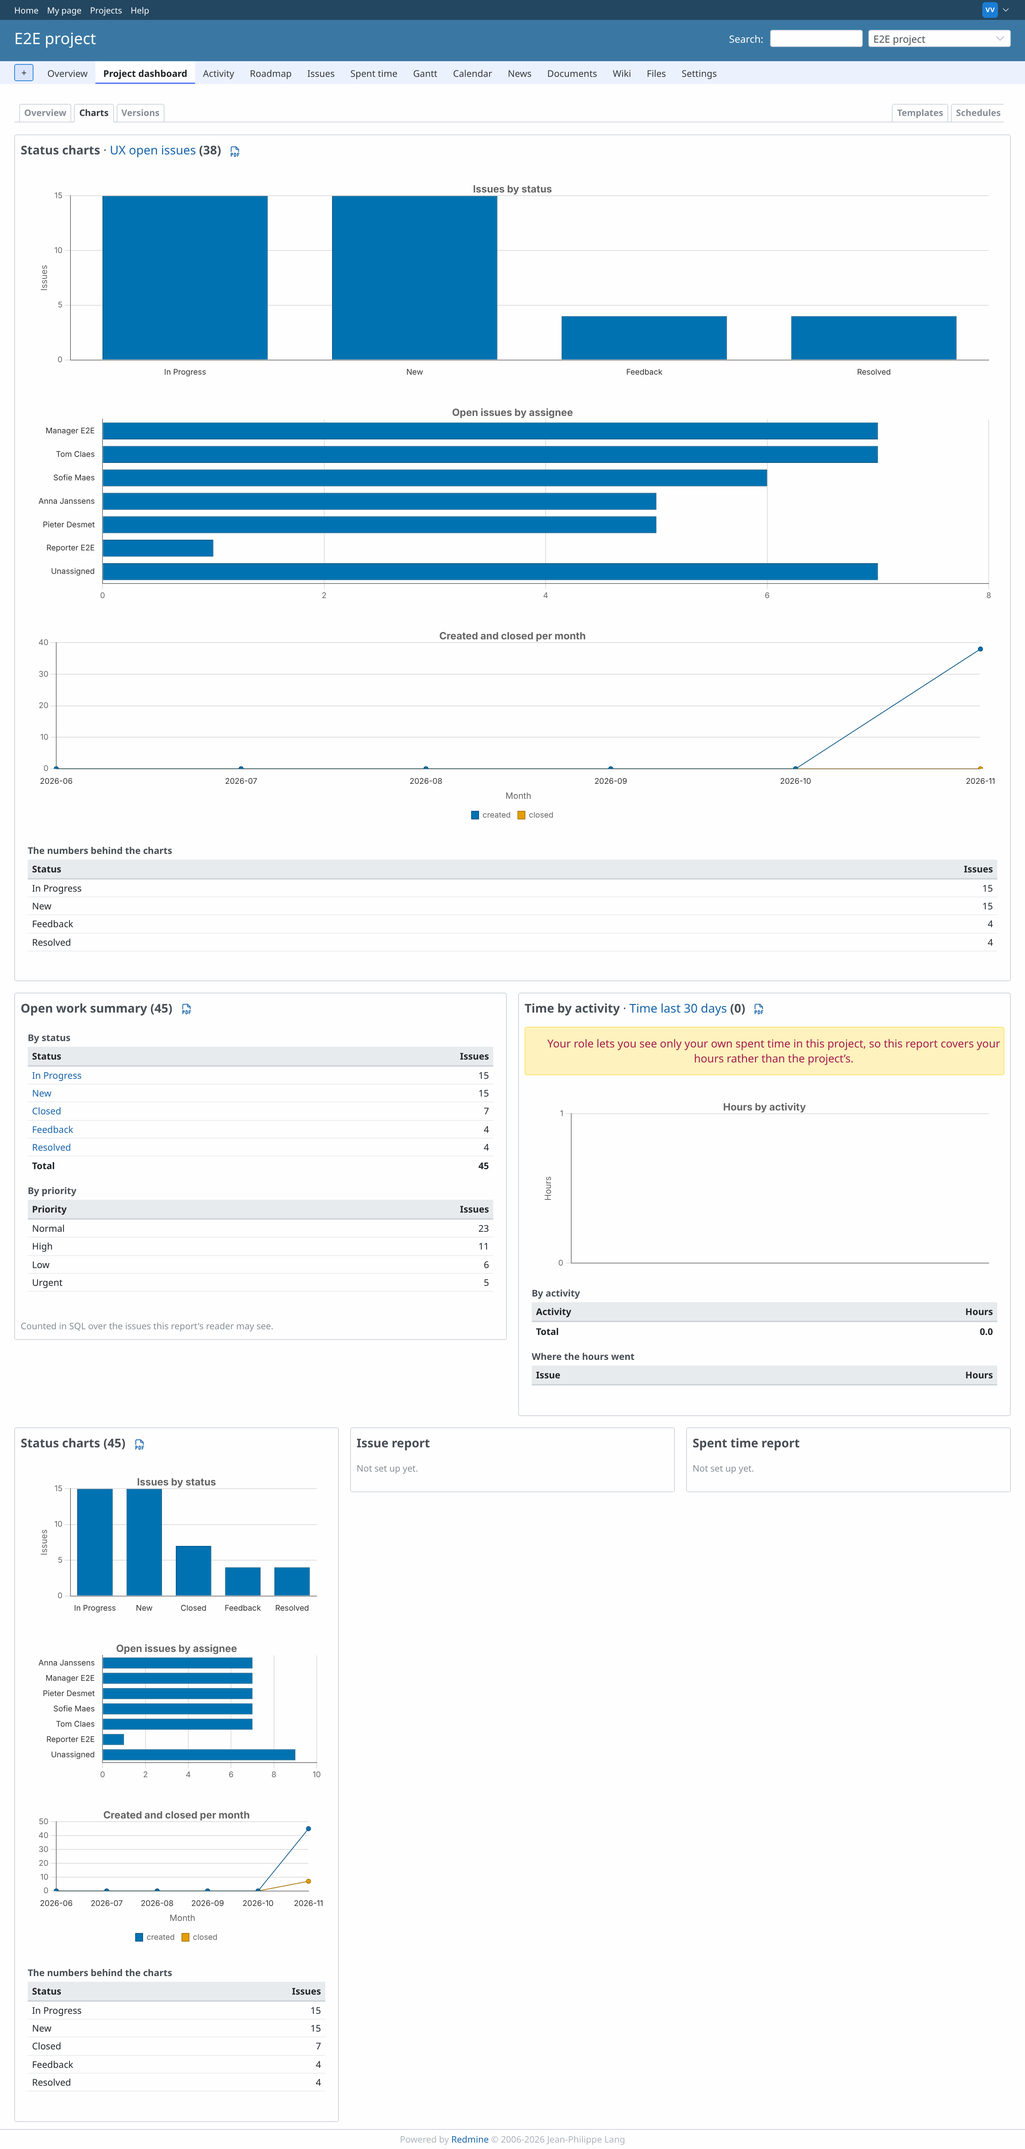
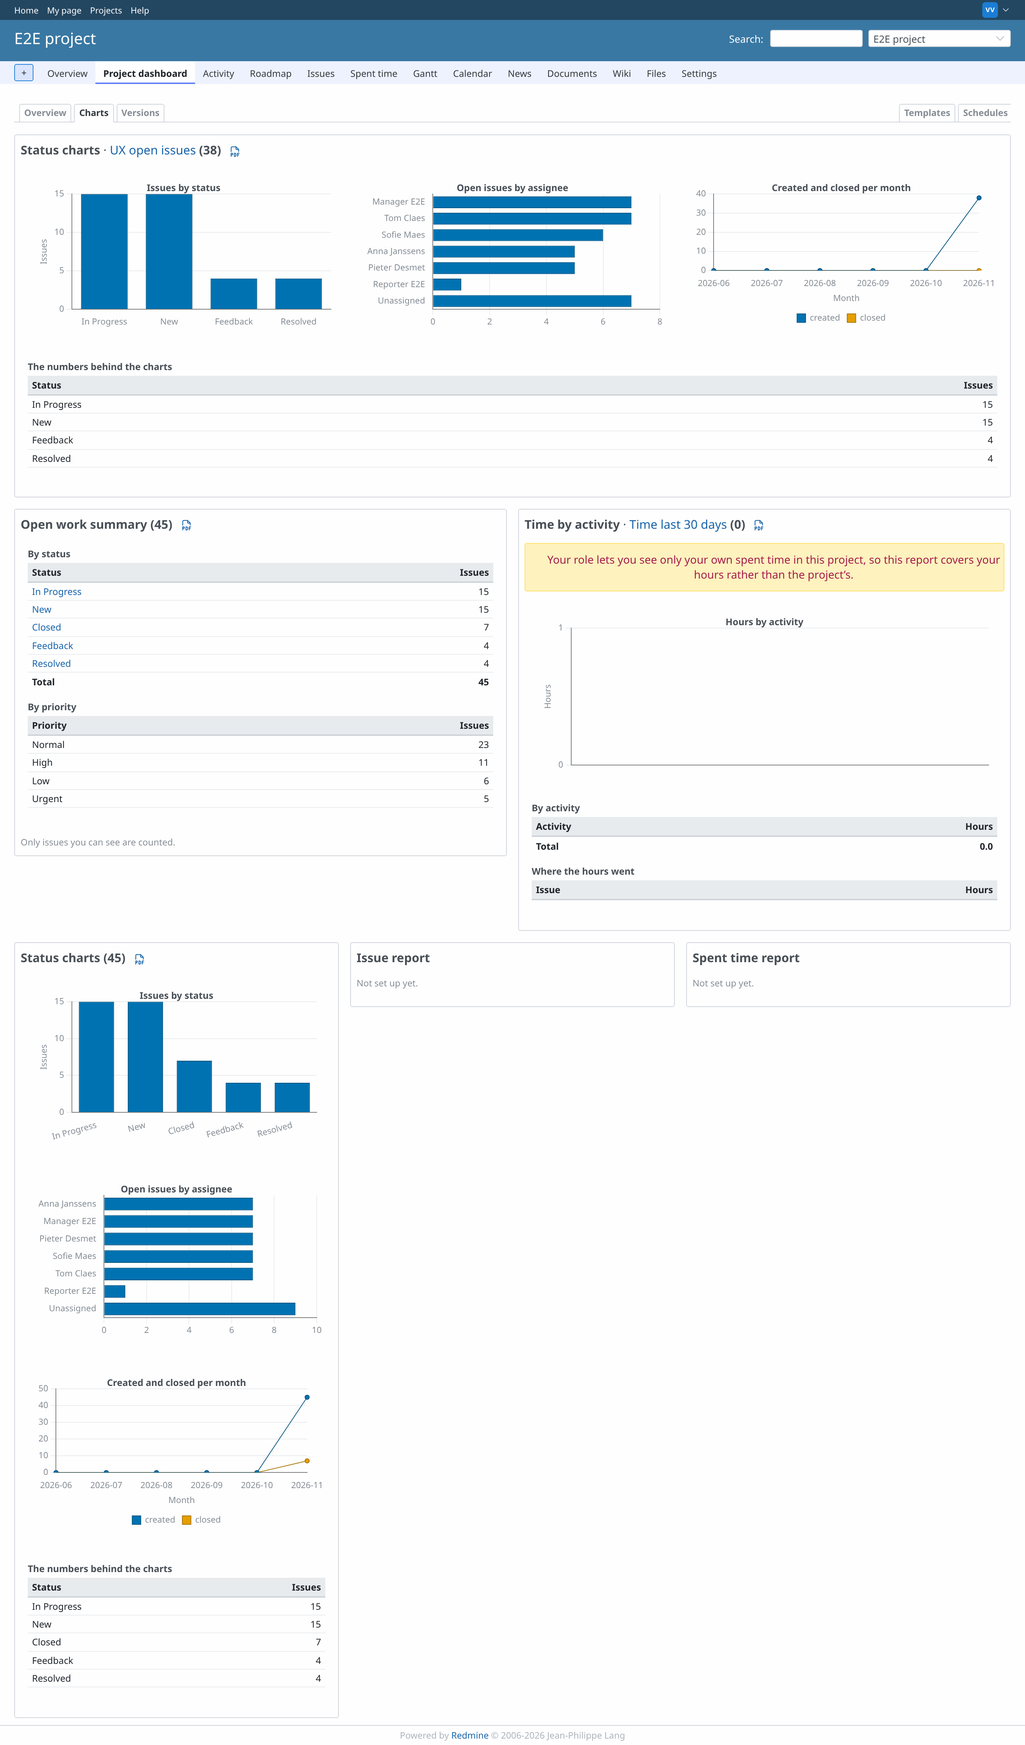
UX review 2026-11: the final design, every proposal together
img/final/: every page with all proposals applied, for both navigation
variants, as before | one tab bar | two levels composites (manager, admin,
reader without edit rights). Charts in widgets 3/2/1 per row by width with
Redmine-sized grey axis text; the dashboard's own controls off the
management tab group (also at 1100 px); "Visible" as core's query form; the
lint clean state as one plain line; the scope line in plain words.

Claude-Session: https://claude.ai/code/session_0125TbB9KHiKa4XoSKmhyFAo

diff --git a/docs/ux-review-2026-11/mockup/ux.js b/docs/ux-review-2026-11/mockup/ux.js
@@ -41,6 +41,9 @@
       if (o.current === 'dashboard' && tabs) {
         tabs.classList.add('ux-subtabs');
         tabs.parentNode.insertBefore(top, tabs);
+        // "Add:" and the gear belong to the dashboard, so they sit on its own tab row.
+        const ctx = $('#content > .contextual');
+        if (ctx) tabs.parentNode.insertBefore(ctx, tabs);
       } else {
         content.insertBefore(top, $('#content > h2') ? $('#content > h2').nextSibling : content.firstChild);
       }
@@ -53,6 +56,10 @@
     const right = manageTabs.map((t, i) => li(t, o.current === t.key, i === 0 ? ' class="ux-tabs-right"' : '')).join('');
     if (o.current === 'dashboard' && tabs) {
       $('ul', tabs).insertAdjacentHTML('beforeend', right);
+      // The dashboard's own controls ("Add:" and the gear) leave the tab row so they never
+      // crowd the management tabs: a .contextual line of their own, right-aligned, under it.
+      const ctx = $('#content > .contextual');
+      if (ctx) { ctx.classList.add('ux-dash-controls'); tabs.insertAdjacentElement('afterend', ctx); }
     } else {
       const pages = o.dashTabs.map((t) => li(t, false)).join('');
       tabs = el(`<div class="tabs"><ul>${pages}${right}</ul></div>`);
@@ -115,6 +122,14 @@
   // ---------------------------------------------------------------- 3. dashboard widgets
   // o = { editor, notes: { boxId: [text] } }
   const WIDGET_LABEL = { report_by_issues: 'Issue report', report_by_spent_time: 'Spent time report' };
+  // The starters' scope lines in Redmine's own register (they are template text, so the
+  // real change is in starters/*.liquid).
+  function plainNote(text) {
+    return text
+      .replace(/^Counted in SQL over the issues this report's reader may see\.?/, 'Only issues you can see are counted.')
+      .replace(/^Versions with no issues in this report do not appear.*$/, 'Versions without issues in this report are not listed.')
+      .replace(/^Hours are summed in SQL.*$/, 'Only time entries you can see are counted.');
+  }
   function widgets(o) {
     $$('#reporter-project-page .mypage-box').forEach((box) => {
       const base = box.id.replace(/^reporter-block-/, '').replace(/__\d+$/, '');
@@ -144,7 +159,7 @@
         // Degradations and the report's own scope lines ("Counted in SQL over the issues
         // this report's reader may see.") are facts about the numbers and who they cover:
         // one quiet grey foot line under the report, for every reader.
-        const foot = degText.concat(notes);
+        const foot = degText.concat(notes.map(plainNote));
         if (foot.length) frame.insertAdjacentElement('afterend', el(`<p class="ux-widget-foot"><em class="info">${esc(foot.join(' '))}</em></p>`));
       }
 
@@ -189,6 +204,7 @@
     const chart = $('#reporter-chart-form');
     if (chart) chart.style.display = 'none';
     lintClean();
+    coreVisibility();
     // Reference: every group closed, so the sidebar is a short index rather than 60 lines.
     $$('details.reporter-drop-reference').forEach((d) => d.removeAttribute('open'));
     const refInfo = $('#sidebar em.info');
@@ -211,12 +227,36 @@
     textMatches(/executed on the server/).forEach((n) => { n.textContent = 'Templates run on the server: whoever can edit one can run code as the application.'; });
   }
 
-  // A clean lint result stays visible (an absent panel cannot be told from one that did
-  // not run, lint_panel_test.rb:267) but as one grey line instead of a yellow box; the
-  // rake task stays named on the page (:281).
+  // A clean lint result: one plain grey line (an absent panel cannot be told from one that
+  // did not run, lint_panel_test.rb:267). The rake command goes: authors are not admins.
   function lintClean() {
     if (!$('#reporter-template-lint-clean')) return;
-    $('#reporter-template-lint').replaceWith(el('<p id="reporter-template-lint"><em class="info">Linter: no findings. For every template in this installation: <code>rake reporter_dashboards:lint_templates</code></em></p>'));
+    $('#reporter-template-lint').replaceWith(el('<p id="reporter-template-lint"><em class="info">No linter findings.</em></p>'));
+  }
+
+  // "Visible" exactly as core's query form (app/views/queries/_form.html.erb:20-29 and
+  // :118-121): private, public, then "to these roles only:" with the roles indented
+  // (label.block.role-visibility) and enabled only while that option is chosen.
+  function coreVisibility() {
+    const radios = $$('input[type=radio][name="template[visibility]"]');
+    if (!radios.length) return;
+    const p = radios[0].closest('p');
+    const labelOf = (v) => { const r = radios.find((x) => x.value === String(v)); return r && (r.closest('label') || r.parentNode); };
+    const roles = $$('input[type=checkbox][name="template[role_ids][]"]');
+    const roleLabels = roles.map((cb) => cb.closest('label') || cb.parentNode);
+    const hidden = $('input[type=hidden][name="template[role_ids][]"]', p);
+    [labelOf(0), labelOf(2), labelOf(1)].forEach((l) => { if (l) { l.classList.add('block'); p.appendChild(l); } });
+    const rolesLabel = labelOf(1);
+    if (rolesLabel && !/:\s*$/.test(rolesLabel.textContent)) {
+      const last = Array.from(rolesLabel.childNodes).reverse().find((n) => n.nodeType === 3 && n.textContent.trim());
+      if (last) last.textContent = last.textContent.replace(/\s+$/, '') + ':';
+    }
+    roleLabels.forEach((l) => { l.classList.add('block', 'role-visibility'); p.appendChild(l); });
+    if (hidden) p.appendChild(hidden);
+    $$('span', p).forEach((s) => { if (!s.textContent.trim()) s.remove(); });
+    const sync = () => { const on = radios.find((x) => x.value === '1')?.checked; roles.forEach((cb) => { cb.disabled = !on; }); };
+    radios.forEach((r) => r.addEventListener('change', sync));
+    sync();
   }
 
   function templateShow() {

diff --git a/docs/ux-review-2026-11/mockup/report-frame.js b/docs/ux-review-2026-11/mockup/report-frame.js
@@ -1,6 +1,10 @@
 // UX review 2026-11, mockup only. Evaluated INSIDE a report widget's frame after
-// report-frame.css. Argument: { chartHeight, techPatterns } . Returns the technical
-// notes it hid, so the parent can offer them to editors behind one small icon.
+// report-frame.css. Argument: { techPatterns } . Returns the scope/technical lines it hid,
+// so the parent can show them as one grey foot line under the widget.
+//
+// Charts: consecutive chart cards are laid out side by side when the widget is wide
+// (3 per row from 1100px, 2 from 720px, else 1), never wider than 720px when alone, with
+// axis and legend text at Redmine's size and grey.
 (opts) => {
   const hidden = [];
   const patterns = (opts.techPatterns || []).map((p) => new RegExp(p, 'i'));
@@ -11,15 +15,49 @@
       hidden.push(text.replace(/\s+/g, ' '));
     }
   });
+
+  const width = document.body.clientWidth;
+  const maxCols = width >= 1100 ? 3 : width >= 720 ? 2 : 1;
+  const isChartCard = (n) => n && n.nodeType === 1 && n.querySelector && n.querySelector(':scope > .rrd-chart-frame, :scope > figure .rrd-chart-frame');
+  const groups = [];
   document.querySelectorAll('.rrd-chart-frame').forEach((frame) => {
-    frame.style.maxWidth = 'none';
-    frame.style.height = `${opts.chartHeight}px`;
-    const canvas = frame.querySelector('canvas');
-    const chart = canvas && window.Chart && window.Chart.getChart && window.Chart.getChart(canvas);
-    if (chart) {
-      chart.options.maintainAspectRatio = false;
-      chart.resize();
-    }
+    const card = frame.closest('.rrd-card') || frame;
+    const last = groups[groups.length - 1];
+    if (last && last[last.length - 1].nextElementSibling === card) last.push(card);
+    else groups.push([card]);
+  });
+  groups.forEach((cards) => {
+    const cols = Math.min(maxCols, cards.length);
+    const grid = document.createElement('div');
+    grid.className = 'ux-chart-grid';
+    grid.style.cssText = `display:grid;grid-template-columns:repeat(${cols},minmax(0,1fr));gap:12px 24px;margin:0 0 12px;max-width:${cols === 1 ? 720 : 9999}px`;
+    cards[0].parentNode.insertBefore(grid, cards[0]);
+    cards.forEach((c) => grid.appendChild(c));
+    cards.forEach((c) => c.querySelectorAll('.rrd-chart-frame').forEach((f) => {
+      f.style.maxWidth = 'none';
+      f.style.height = `${cols === 1 && maxCols === 1 ? 240 : 230}px`;
+    }));
+  });
+  void isChartCard;
+
+  const font = { family: '"Noto Sans", sans-serif', size: 12 };
+  const grey = '#868e96';
+  document.querySelectorAll('.rrd-chart-frame canvas').forEach((canvas) => {
+    const chart = window.Chart && window.Chart.getChart && window.Chart.getChart(canvas);
+    if (!chart) return;
+    // The raw config, not chart.options (a resolved proxy that cannot take new objects).
+    const o = chart.config.options;
+    o.maintainAspectRatio = false;
+    o.plugins = o.plugins || {};
+    if (o.plugins.legend) { o.plugins.legend.labels = Object.assign(o.plugins.legend.labels || {}, { font, color: grey, boxWidth: 12 }); }
+    if (o.plugins.title) { o.plugins.title.font = { ...font, size: 13, weight: 'bold' }; o.plugins.title.color = '#495057'; }
+    Object.values(o.scales || {}).forEach((s) => {
+      s.ticks = Object.assign(s.ticks || {}, { font, color: grey });
+      if (s.title) { s.title.font = font; s.title.color = grey; }
+      if (s.grid) s.grid.color = '#e9ecef';
+    });
+    chart.update('none');
+    chart.resize();
   });
   return hidden;
 }

diff --git a/docs/ux-review-2026-11/mockup/ux.css b/docs/ux-review-2026-11/mockup/ux.css
@@ -6,8 +6,11 @@
 /* one-row: the management tabs at the end of the core tab bar */
 #content .tabs ul { display: flex; }
 #content .tabs li.ux-tabs-right { margin-inline-start: auto; }
-/* two-level variant: the dashboard's pages as a lighter second row */
-#content .tabs.ux-subtabs { margin-top: 6px; }
+/* one-row: the dashboard's own controls on a line under the tab bar */
+#content > .contextual.ux-dash-controls { float: none; text-align: end; margin: 6px 0 8px; }
+/* two-level variant: the dashboard's pages as a lighter second row, its controls beside it */
+#content .tabs.ux-subtabs { margin-top: 0; }
+#content .tabs.ux-feature-tabs { margin-bottom: 10px; }
 #content .tabs.ux-subtabs a { font-size: 12px; padding: 2px 8px; }
 
 /* 3. Dashboard widgets ------------------------------------------------------------------ */

diff --git a/docs/ux-review-2026-11/mockup/compress.py b/docs/ux-review-2026-11/mockup/compress.py
@@ -62,14 +62,46 @@ for spec in COMPOSITES:
     if all(os.path.exists(os.path.join(IMG, f + '.png')) for f in spec[1:3]):
         composite(*spec)
 
+FINAL = os.path.join(IMG, 'final')
+
+
+def triptych(key, labels=('Before', 'After A: one tab bar', 'After B: two levels'), scale=0.5):
+    """before | after A | after B, each panel at 1x (half the 2x capture)."""
+    panels = []
+    for suffix, label in zip(('before', 'a', 'b'), labels):
+        im = Image.open(os.path.join(FINAL, f'{key}-{suffix}.png')).convert('RGB')
+        if im.width > 2000:  # a fresh 2x capture; a re-run finds them already at 1x
+            im = im.resize((int(im.width * scale), int(im.height * scale)), Image.LANCZOS)
+        panels.append(labelled(im, label))
+    gap = 24
+    out = Image.new('RGB', (sum(p.width for p in panels) + gap * 2, max(p.height for p in panels)), 'white')
+    x = 0
+    for p in panels:
+        out.paste(p, (x, 0))
+        x += p.width + gap
+    out.save(os.path.join(FINAL, f'{key}.png'))
+
+
+if os.path.isdir(FINAL):
+    keys = sorted({f[:-len('-before.png')] for f in os.listdir(FINAL) if f.endswith('-before.png')})
+    for key in keys:
+        if all(os.path.exists(os.path.join(FINAL, f'{key}-{s}.png')) for s in ('a', 'b')):
+            triptych(key)
+
 total = 0
-for f in sorted(os.listdir(IMG)):
+files = [os.path.join(IMG, f) for f in os.listdir(IMG)]
+if os.path.isdir(FINAL):
+    files += [os.path.join('final', f) for f in os.listdir(FINAL)]
+for f in sorted(files):
     if not f.endswith('.png'):
         continue
     path = os.path.join(IMG, f)
     im = Image.open(path)
+    # final/<page>-{before,a,b}: kept at 1x; the composites are what people look at.
+    if os.path.dirname(f) == 'final' and f.endswith(('-before.png', '-a.png', '-b.png')) and im.width > 2000:
+        im = im.convert('RGB').resize((im.width // 2, im.height // 2), Image.LANCZOS)
     if im.mode != 'P':
         im = im.convert('RGB').quantize(colors=256, method=Image.Quantize.FASTOCTREE, dither=Image.Dither.NONE)
         im.save(path, optimize=True)
     total += os.path.getsize(path)
-print(f'{len([f for f in os.listdir(IMG) if f.endswith(".png")])} images, {total / 1e6:.1f} MB')
+print(f'{len([f for f in files if f.endswith(".png")])} images, {total / 1e6:.1f} MB')

diff --git a/docs/ux-review-2026-11/README.md b/docs/ux-review-2026-11/README.md
@@ -21,6 +21,61 @@ Rails 8.1, Ruby 3.3.6, PostgreSQL 16, production mode, Chromium) with this plugi
 **Constraints:** no change to permissions, visibility or what data anyone sees, unless named
 below as a decision for Jan; no page slower; English wording here, translations later.
 
+## Final design
+
+Every proposal applied together, on every page, for both navigation variants. Each image is
+**Before | After A (one tab bar, recommended) | After B (two levels)**, 1440 px per panel.
+The single shots are next to them in [`img/final/`](img/final/) (`<page>-before.png`,
+`-a.png`, `-b.png`).
+
+**Manager (all permissions)**
+
+| Page | Composite |
+|---|---|
+| Dashboard, Overview (rows of 1, 2, 3 widgets) | [![](img/final/dashboard-overview.png)](img/final/dashboard-overview.png) |
+| Dashboard, Charts (charts 3 per row in a wide widget, 1 per row in narrow ones) | [![](img/final/dashboard-charts.png)](img/final/dashboard-charts.png) |
+| Dashboard, Versions | [![](img/final/dashboard-versions.png)](img/final/dashboard-versions.png) |
+| Templates | [![](img/final/templates.png)](img/final/templates.png) |
+| New template | [![](img/final/template-new.png)](img/final/template-new.png) |
+| Template page | [![](img/final/template-show.png)](img/final/template-show.png) |
+| Schedules (project member) | [![](img/final/schedules.png)](img/final/schedules.png) |
+| Schedules (administrator) | [![](img/final/schedules-admin.png)](img/final/schedules-admin.png) |
+| Sent reports | [![](img/final/sent-reports.png)](img/final/sent-reports.png) |
+| Project settings (plugin tab removed, choice 1c) | [![](img/final/settings.png)](img/final/settings.png) |
+| Dashboard controls at 1100 px | [![](img/final/controls-1100.png)](img/final/controls-1100.png) |
+
+**Reader without edit rights (`viewer`)**
+
+| Page | Composite |
+|---|---|
+| Dashboard, Overview | [![](img/final/reader-overview.png)](img/final/reader-overview.png) |
+| Dashboard, Charts (S-14 notice stays) | [![](img/final/reader-charts.png)](img/final/reader-charts.png) |
+| Templates | [![](img/final/reader-templates.png)](img/final/reader-templates.png) |
+| Template page | [![](img/final/reader-template-show.png)](img/final/reader-template-show.png) |
+| Schedules | [![](img/final/reader-schedules.png)](img/final/reader-schedules.png) |
+
+What the final pages add to the per-finding shots below:
+- **Dashboard controls.** Variant A: "Add:" and the gear get their own right-aligned
+  `.contextual` line under the tab bar, so they never crowd Templates | Schedules | Sent
+  reports, also at 1100 px. Variant B: they sit on the dashboard's own (second) tab row.
+- **Charts in widgets.** Chart cards side by side: 3 per row from 1100 px widget width, 2 from
+  720 px, else 1; a single chart is at most 720 px wide; 230 to 240 px high. Axis, legend and
+  title text 12 to 13 px Noto Sans, ticks and legend grey `#868e96` (core `em.info` grey),
+  chart title `#495057`, grid lines `#e9ecef`.
+- **Scope line in plain words:** "Only issues you can see are counted." (and "Only time
+  entries you can see are counted.", "Versions without issues in this report are not
+  listed."). These lines are template text, so the change is in `starters/*.liquid`.
+  Caveat: in a document rendered as another user (a schedule's "render as", a share link)
+  "you" is not the reader; there the starter should name the render actor ("Only issues
+  Manager E2E can see are counted."). Proposed wording on screen: **"Only issues you can see
+  are counted."**
+- **"Visible" as core's query form** (`app/views/queries/_form.html.erb:20-29, :118-121`): to me
+  only, to any users, to these roles only:, then the roles indented (`label.block.role-visibility`)
+  and disabled until "to these roles only" is chosen.
+- **Lint, no findings:** one plain grey line "No linter findings.", without the rake command
+  (authors are not admins). This changes D4: `lint_panel_test.rb:281-285` asserts the task
+  name on the page and must change with it.
+
 ## Summary
 
 | # | Finding | Proposal in one line | Effort | Queries |
@@ -43,7 +98,7 @@ These are not plain UX calls: each one reverses a recorded decision or a spec co
 | D1 | Templates and Schedules live under Project settings, one entry point per page | Curator decision 2026-08-21 (`init.rb:136-152`, `settings_tab.rb:7-11`) | Moves them to the project menu item's tab bar; Settings tab removed (choice 1c) |
 | D2 | The Settings tab is the way in for roles without the dashboard permission, and for projects with Reports on and Dashboards off | `settings_tab.rb:44-49`, `permissions.rb:122-164` (`settings_tab: true` maps `projects#settings`) | Needs a replacement entry point, see 1 "Access" |
 | D3 | INV-9: the authoring permission labels say they run code, plus a warning on the permissions screen | `technical-spec.md:580-581`, `:1146` | Labels shortened but keep "(runs code)"; see 6 |
-| D4 | A clean lint result is shown, and the rake task is named on the page | `test/functional/reporter_dashboards_lint_panel_test.rb:267-285` | Kept, as one grey line instead of a yellow box |
+| D4 | A clean lint result is shown, and the rake task is named on the page | `test/functional/reporter_dashboards_lint_panel_test.rb:267-285` | Clean state kept as one grey line "No linter findings."; the rake command is dropped (test :281-285 changes) |
 
 ### Corrections to the brief (measured on this branch)
 
@@ -214,11 +269,15 @@ The S-14 narrowing notice stays exactly as today (visible, `p.warning`):
   `#495057`, links without underline in core blue, tables in `table.list` colours (header
   `#e9ecef`, 2px `#ced4da` rule), numbers right-aligned. PDF and the full report page keep
   the print stylesheet.
-- **Charts at the widget's width**: no `max-width` on `.rrd-chart-frame`; height by widgets
-  in the row, 1 = 300px, 2 = 260px, 3 = 220px (Chart.js is already responsive).
+- **Charts laid out by the widget's width**: consecutive chart cards in a CSS grid, 3 per row
+  from 1100px, 2 from 720px, else 1; a lone chart at most 720px wide; 230 to 240px high; axis
+  and legend text 12px grey `#868e96`, chart title 13px `#495057` (Chart.js is already
+  responsive; the fonts are chart options the report stylesheet's widget variant sets). See
+  [final/dashboard-charts.png](img/final/dashboard-charts.png).
 - **Scope and degradation lines as one grey foot line, for every reader.** "Counted in SQL
   over the issues this report's reader may see." is a visibility disclosure (same family as
-  S-14) and comes from the template, so it is styled, not hidden. Degradations read plainly:
+  S-14) and comes from the template, so it is styled, not hidden, and reworded to "Only
+  issues you can see are counted." (see Final design for the render-as caveat). Degradations read plainly:
   "15 issues listed, 11 more under "(other)"." instead of a bold block on top.
 - **Unconfigured widget**: editor: heading + "Not set up yet. Choose a report template under
   Options." and the core gear (`icon-settings`) in `.contextual` toggling the existing form.
@@ -269,9 +328,13 @@ the bottom, a sidebar listing 60+ accessors open.
 - **Chart helper as a button** "Insert a chart" (`icon-stats`) above the editor; it opens the
   existing (already script-driven) form as a core modal instead of a box at the bottom.
 - **Larger editor**: 520px high, monospace.
-- **Clean lint as one grey line (D4)**: "Linter: no findings. For every template in this
-  installation: `rake reporter_dashboards:lint_templates`". The panel still shows that the
-  linter ran and still names the task (both tested). Findings keep today's table.
+- **Clean lint as one plain grey line (D4)**: "No linter findings." The line still shows
+  that the linter ran (tested, :267); the rake command goes, since authors are not admins
+  (test :281-285 changes with it). Findings keep today's table.
+- **"Visible" exactly as core's query form**: to me only, to any users, to these roles only:,
+  roles indented (`label.block.role-visibility`) and disabled until that option is chosen
+  (core JS at `queries/_form.html.erb:118-121`). See
+  [final/template-new.png](img/final/template-new.png).
 - **Shorter help lines** under Data source, Output, Margins, "Produce a failure document".
   The INV-9 line keeps its statement: "Templates run on the server: whoever can edit one can
   run code as the application."
@@ -343,6 +406,8 @@ permission.
 | 3c | Font in the report frame | System font stack |
 | 4a | Starter gallery | Card grid |
 | 6 | Shorter permission labels keeping "(runs code)" (D3) | Yes; no script on the roles page |
+| 7 | Scope line wording | "Only issues you can see are counted."; in a document rendered as another user, name that user |
+| 8 | Lint clean state: one grey line "No linter findings." or nothing (D4) | One grey line |
 
 ## How to reproduce
 
